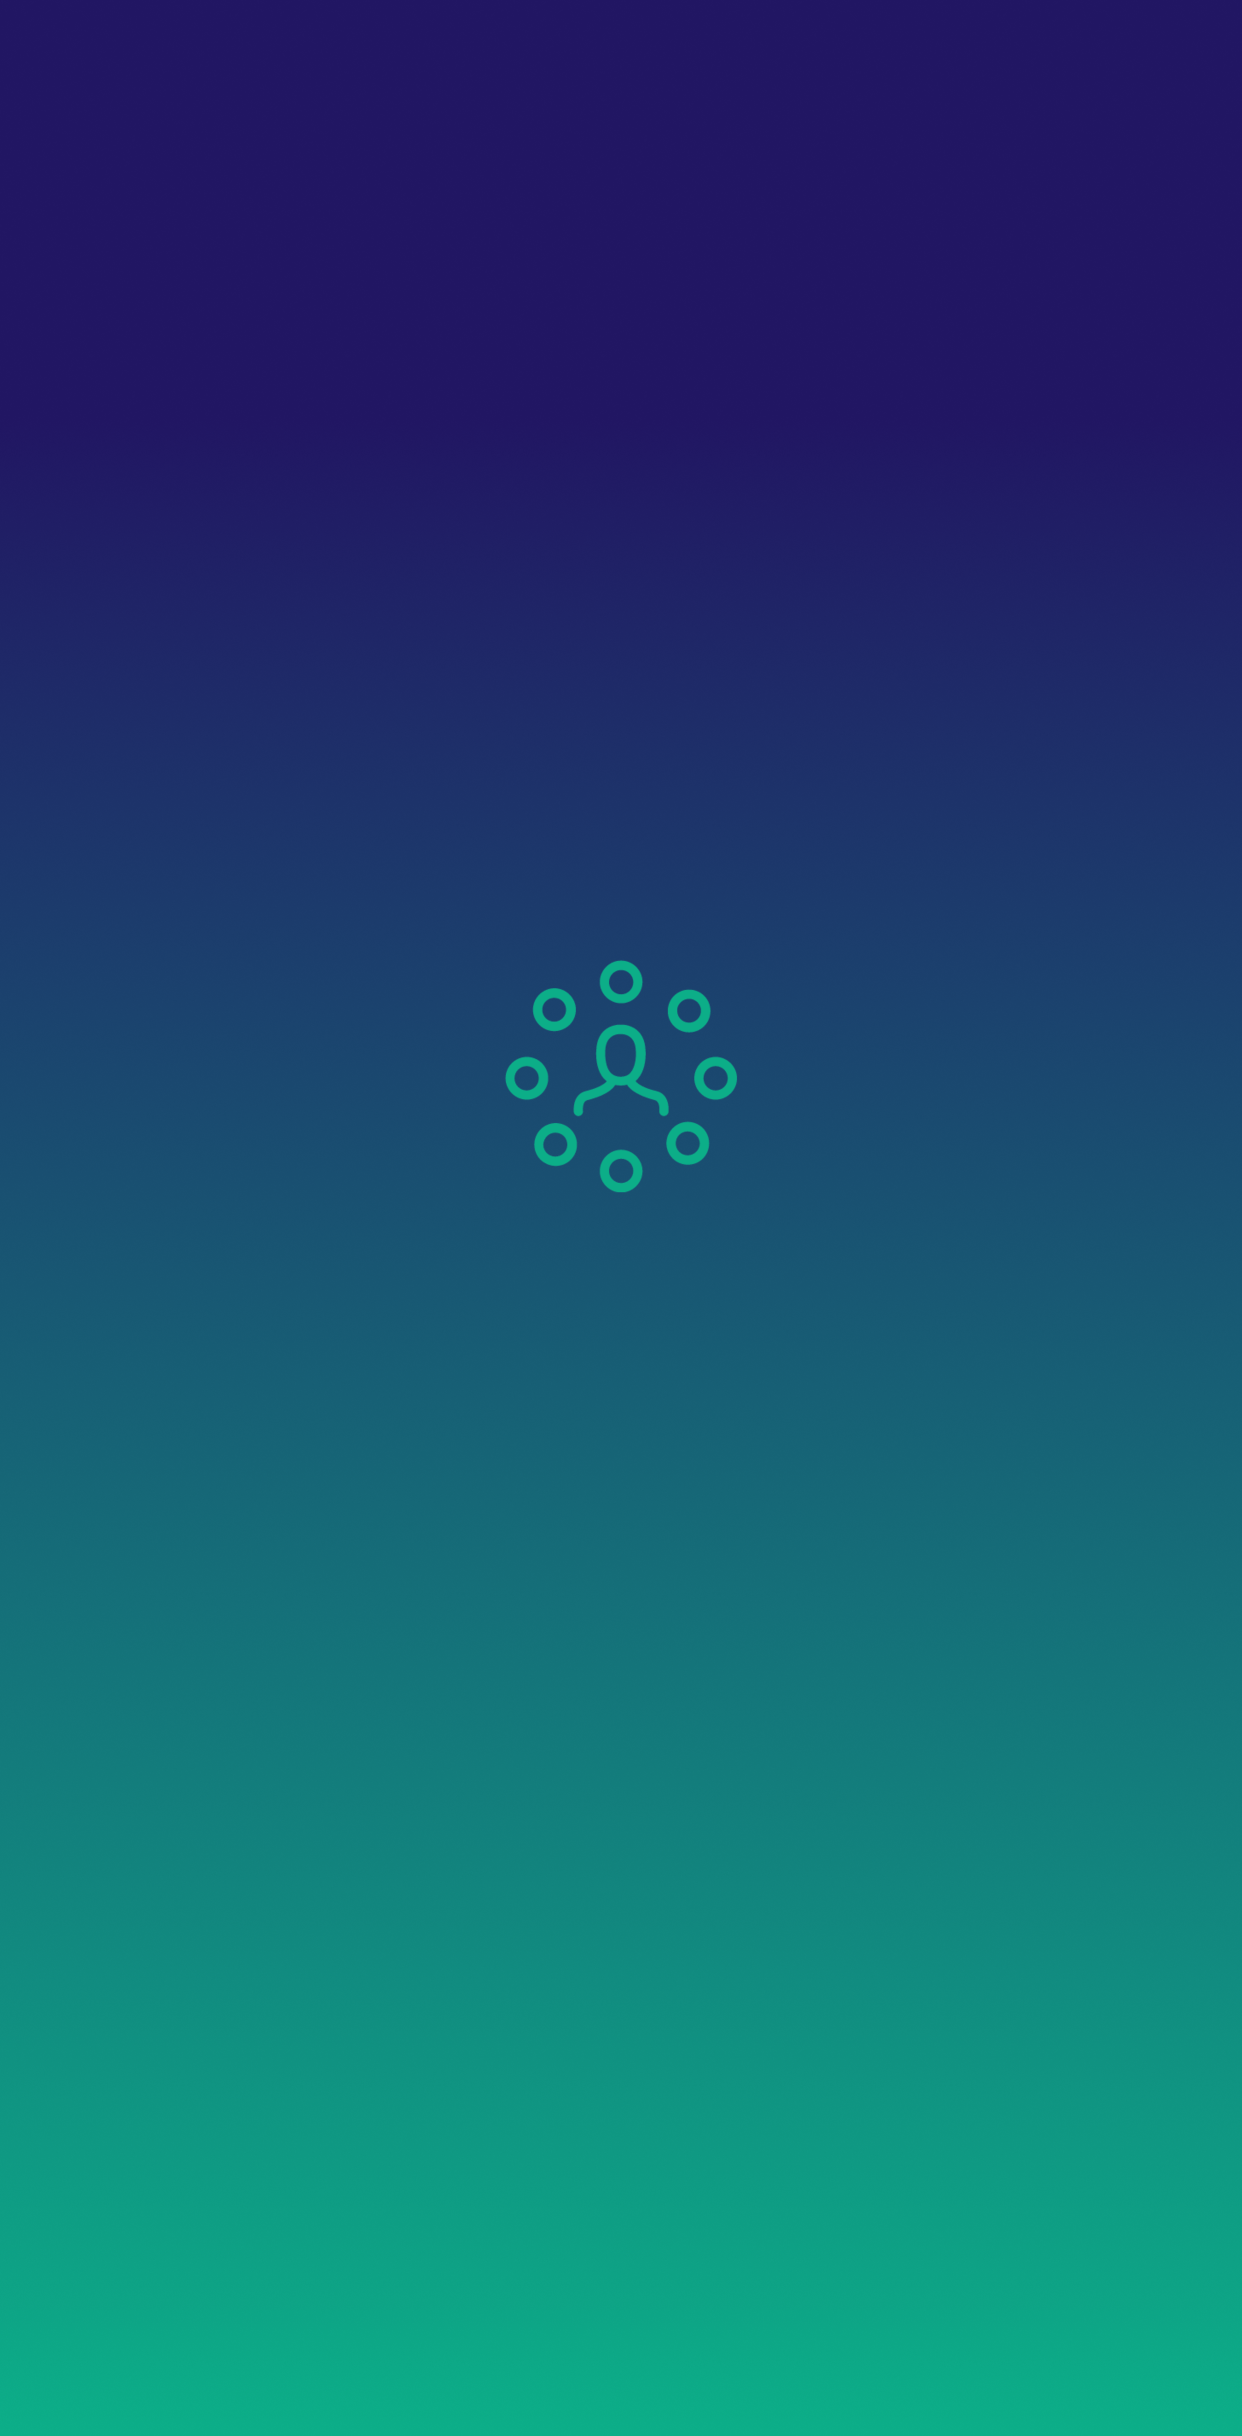
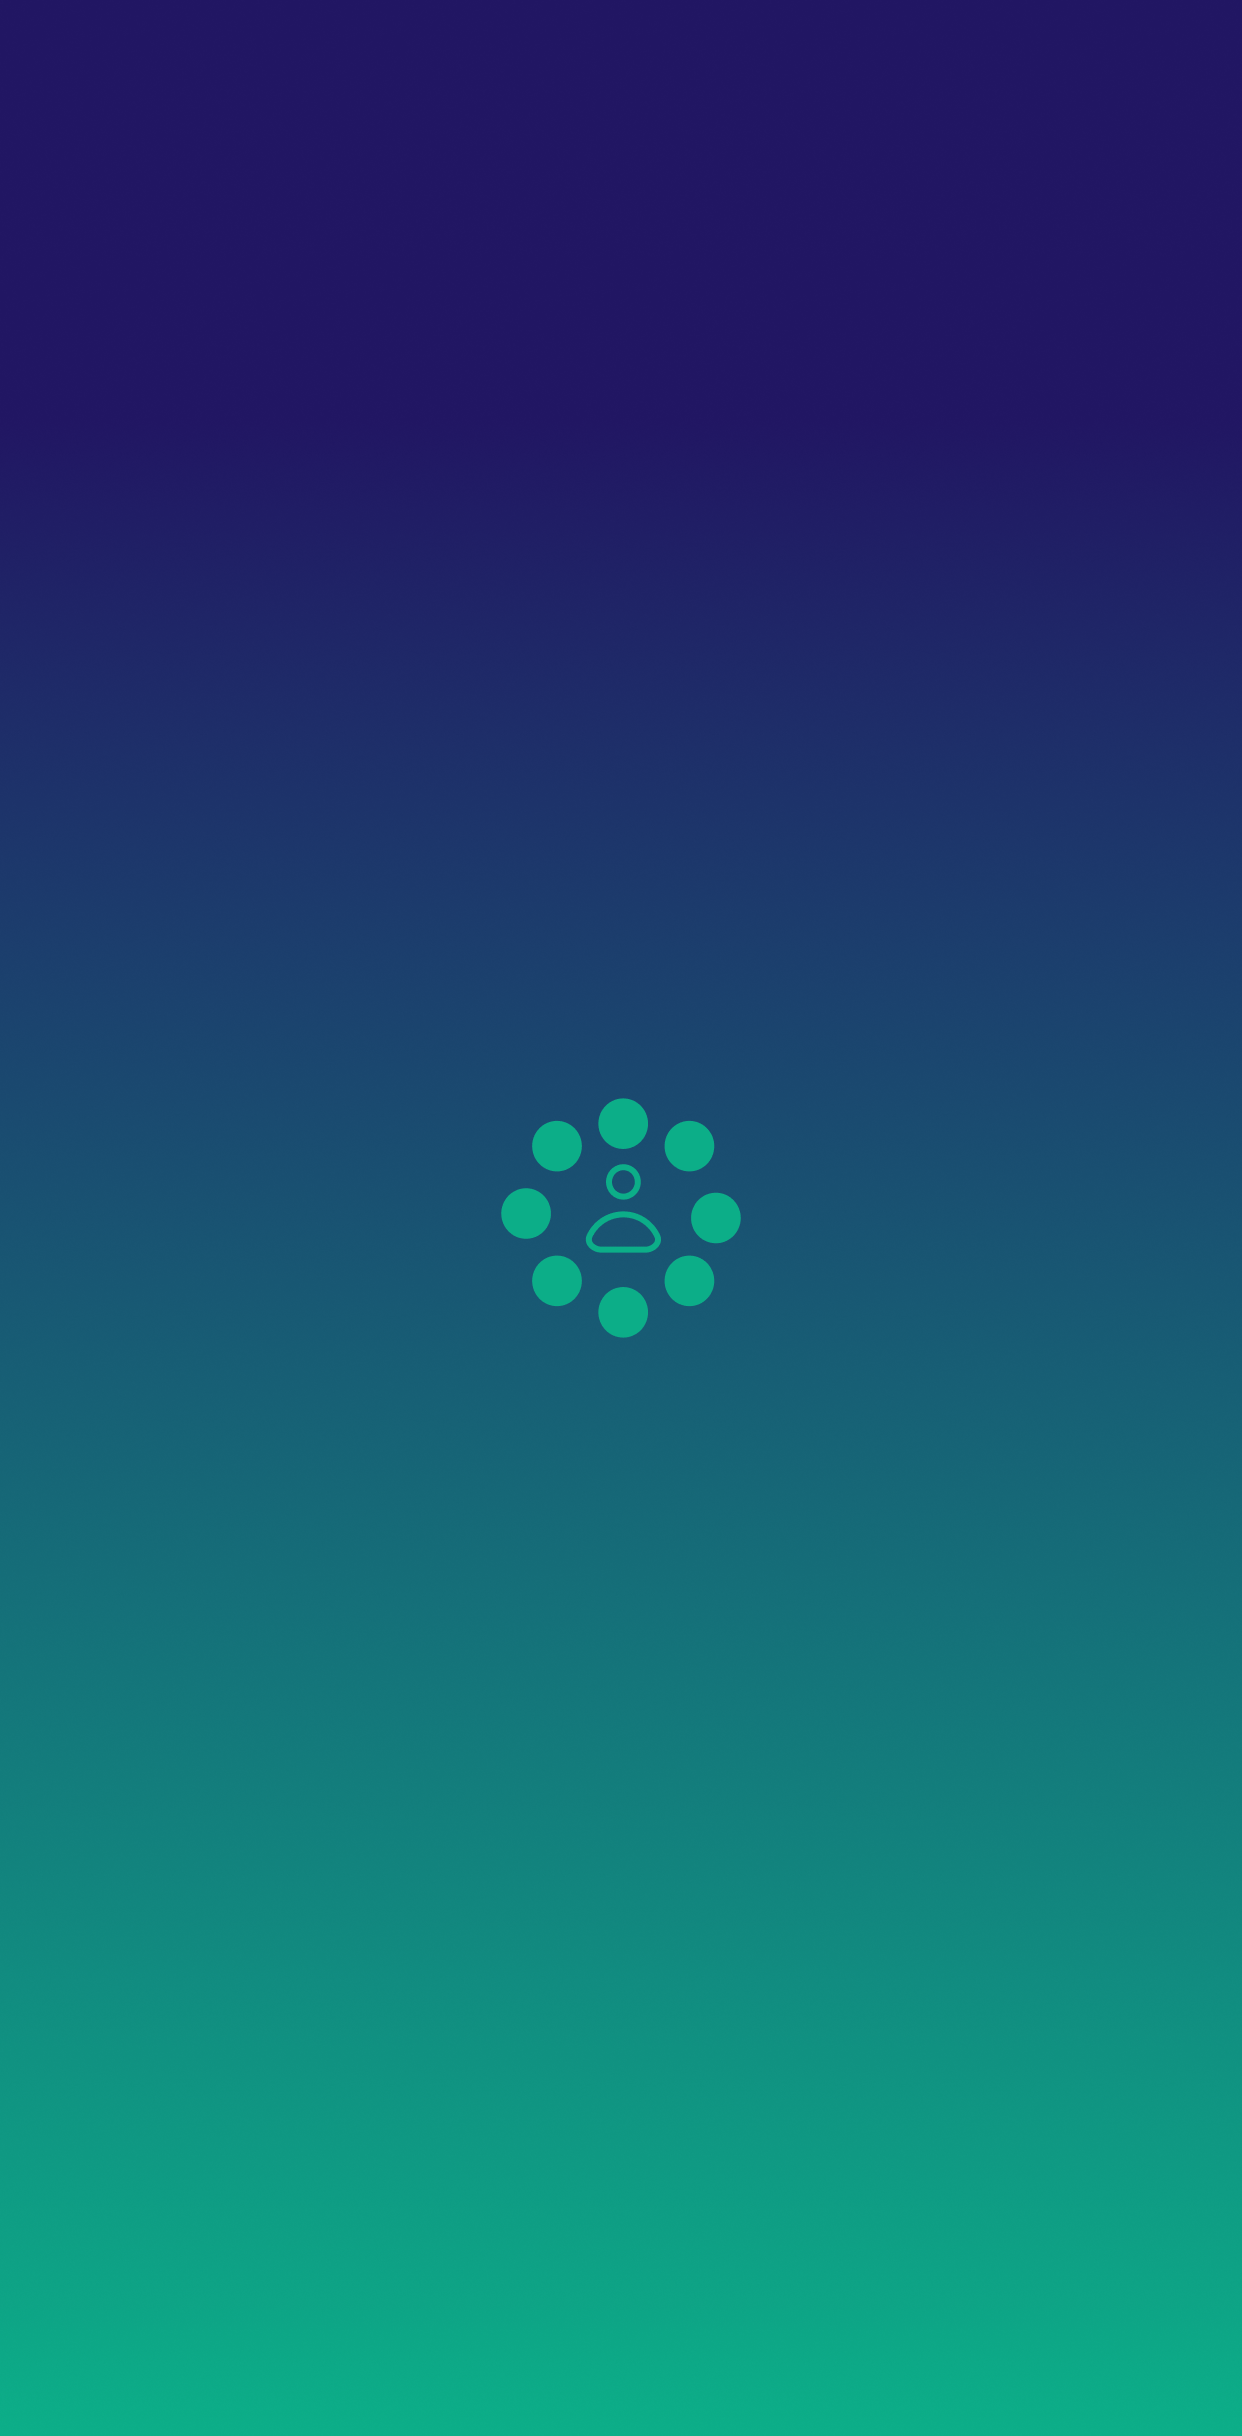
spash screen

Changed region(s): [[0.3977, 0.3744, 0.6119, 0.5616]]

diff --git a/AppInner.js b/AppInner.js
@@ -1,6 +1,5 @@
 import "react-native-gesture-handler";
 import React, { useRef, useState, useEffect, useCallback } from "react";
-import { StatusBar } from "expo-status-bar";
 import * as SplashScreen from "expo-splash-screen";
 import { createDrawerNavigator } from "@react-navigation/drawer";
 import { NavigationContainer } from "@react-navigation/native";
@@ -13,15 +12,14 @@ import { PRIMARY, SECONDARY } from "./constants/colors";
 import { useDispatch, useSelector } from "react-redux";
 import { verifyRefreshToken } from "./redux/auth/authActions";
 import * as SecureStore from "expo-secure-store";
-import { AppState, Modal, View } from "react-native";
+import { AppState, View } from "react-native";
 import EditProfile from "./components/EditProfile";
 import DrawerContent from "./components/DrawerContent";
 import { AntDesign, FontAwesome5, Ionicons, Feather } from "@expo/vector-icons";
 import * as Font from "expo-font";
 import { NUNITO_BOLD } from "./constants/fonts";
 import Notification from "./components/Notification";
-import LottieView from 'lottie-react-native';
-import { LinearGradient } from "expo-linear-gradient";
+import Splash from "./components/Splash";
 
 const HomeStack = createNativeStackNavigator();
 const Drawer = createDrawerNavigator();
@@ -29,6 +27,7 @@ const Drawer = createDrawerNavigator();
 function HomeStackScreen() {
   return (
     <HomeStack.Navigator screenOptions={{ headerShown: false }}>
+      <HomeStack.Screen name="Splash" component={Splash}/>
       <HomeStack.Screen name="HomeScreen" component={Home} />
       <HomeStack.Screen name="PostDetails" component={PostDetails} />
     </HomeStack.Navigator>
@@ -112,24 +111,10 @@ export default function AppInner() {
     return null;
   }
 
-  const handleAnimationFinish = () => {
-    setHasAnimationPlayedOnce(true)
-    setIsModalVisible(false)
-  }
+  
 
   return (
     <>
-      <Modal visible={isModalVisible} animationType="fade">
-    <LinearGradient colors={[PRIMARY, SECONDARY]} style={{flex: 1, width: '100%', height: "100%"}}>
-      <LottieView
-        source={require('./assets/animation.json')}
-        loop={false}
-        autoPlay
-        onAnimationFinish={handleAnimationFinish}
-       />
-    </LinearGradient>
-
-    </Modal>
       <NavigationContainer>
         <Drawer.Navigator
           initialRouteName="Home"
@@ -140,8 +125,7 @@ export default function AppInner() {
             drawerActiveTintColor: PRIMARY,
             drawerInactiveTintColor: "white",
             drawerStyle: {
-              marginTop: 24,
-              // paddingTop: 20,
+              marginTop: 26,
               backgroundColor: PRIMARY,
               borderTopRightRadius: 50,
               borderBottomRightRadius: 50,
@@ -168,6 +152,7 @@ export default function AppInner() {
               ),
             }}
           />
+          
           {!user && (
             <Drawer.Screen
               name="Login"
@@ -203,8 +188,6 @@ export default function AppInner() {
           )}
         </Drawer.Navigator>
         <Notification/>
-
-        <StatusBar style="light" backgroundColor={PRIMARY} />
       </NavigationContainer>
       <View onLayout={onLayoutRootView}></View>
     </>

diff --git a/components/Splash.js b/components/Splash.js
@@ -1,0 +1,21 @@
+import { LinearGradient } from 'expo-linear-gradient'
+import React from 'react'
+import { PRIMARY, SECONDARY } from '../constants/colors'
+import LottieView from 'lottie-react-native';
+
+export default function Splash({ navigation }) {
+
+    return (
+        <LinearGradient colors={[PRIMARY, SECONDARY]} style={{flex: 1, width: '100%', height: "100%"}}>
+          <LottieView
+            source={require('../assets/animation.json')}
+            loop={false}
+            autoPlay
+            onAnimationFinish={()=>navigation.reset({
+                index: 0,
+                routes: [{ name: 'HomeScreen' }]
+           })}
+          />
+        </LinearGradient>
+    )
+}

diff --git a/App.js b/App.js
@@ -1,12 +1,20 @@
 import React from "react";
+import { StatusBar } from "react-native";
 import { Provider } from "react-redux";
 import AppInner from "./AppInner";
+import { PRIMARY } from "./constants/colors";
 import store from "./redux/store";
 
 export default function App() {
   return (
     <Provider store={store}>
       <AppInner />
+      <StatusBar animated={true}
+      translucent
+        backgroundColor="rgba(0,0,0,0)"
+        barStyle='light-content'
+        showHideTransition='slide'
+      />
     </Provider>
   );
 }

diff --git a/components/DrawerContent.js b/components/DrawerContent.js
@@ -66,9 +66,12 @@ export default function DrawerContent(props) {
           labelStyle={{ fontFamily: NUNITO_BOLD, fontSize: 16 }}
           inactiveBackgroundColor={SECONDARY}
           inactiveTintColor={PRIMARY}
+
           // {...props}
         />
+        
       )}
+      
     </View>
   );
 }
